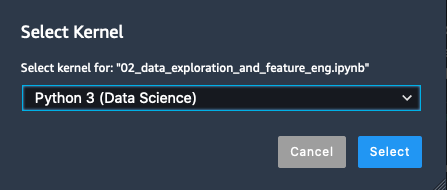
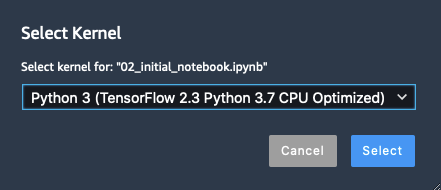
Updated README.txt

diff --git a/labs/01_configure_sagemaker_studio/README.md b/labs/01_configure_sagemaker_studio/README.md
@@ -83,20 +83,22 @@ Type in the URL of this repository (https://github.com/aws-samples/amazon-sagema
 
 In the File Browser, click `amazon-sagemaker-mlops-startup-workshop` and open the folder `02_initial_notebook` folder
 
-Then, open the `02_initial_notebook.ipynb` Jupyter notebook.
+Then, open the `labs/02_initial_notebook.ipynb` Jupyter notebook.
 
-![Open step 2 folder](img/smstudio_open_notebook.jpg)
+![Open step 2 folder](img/smstudio_open_notebook_1.png)
 
-![Open step 2 notebook](img/smstudio_open_notebook2.jpg)
+![Open step 2 notebook](img/smstudio_open_notebook_2.png)
 
 
-Select the "Python 3 Data Science" Kernel by clicking "No Kernel" at the bottom. Then wait until the kernel has started, and start the workshop!
+Select the "Python 3 (TensorFlow 2.3 Python 3.7 CPU Optimized)" Kernel by clicking "No Kernel" at the bottom. 
+
+Then wait until the kernel has started, and start the workshop!
 
 ![kernel_setup1](img/kernel_choice_1.png)
 
 ![kernel_setup2](img/kernel_choice_2.png)
 
-![kernel_setup3](img/kernel_choice_4.png)
+![kernel_setup3](img/kernel_choice_3.png)
 
-![kernel_setup4](img/kernel_choice_5.png)
+![kernel_setup4](img/kernel_choice_4.png)
 
